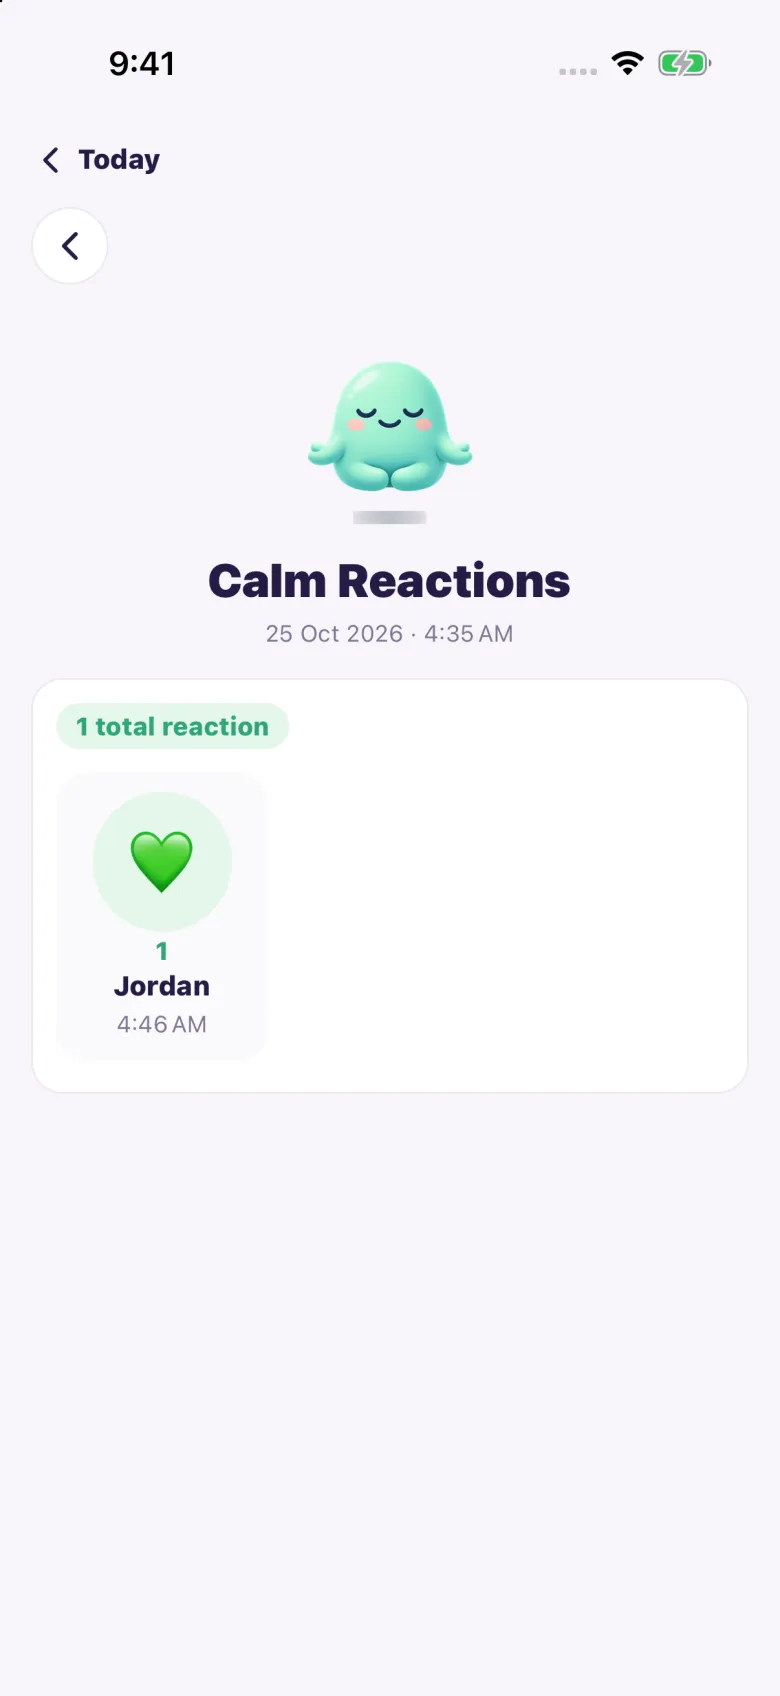
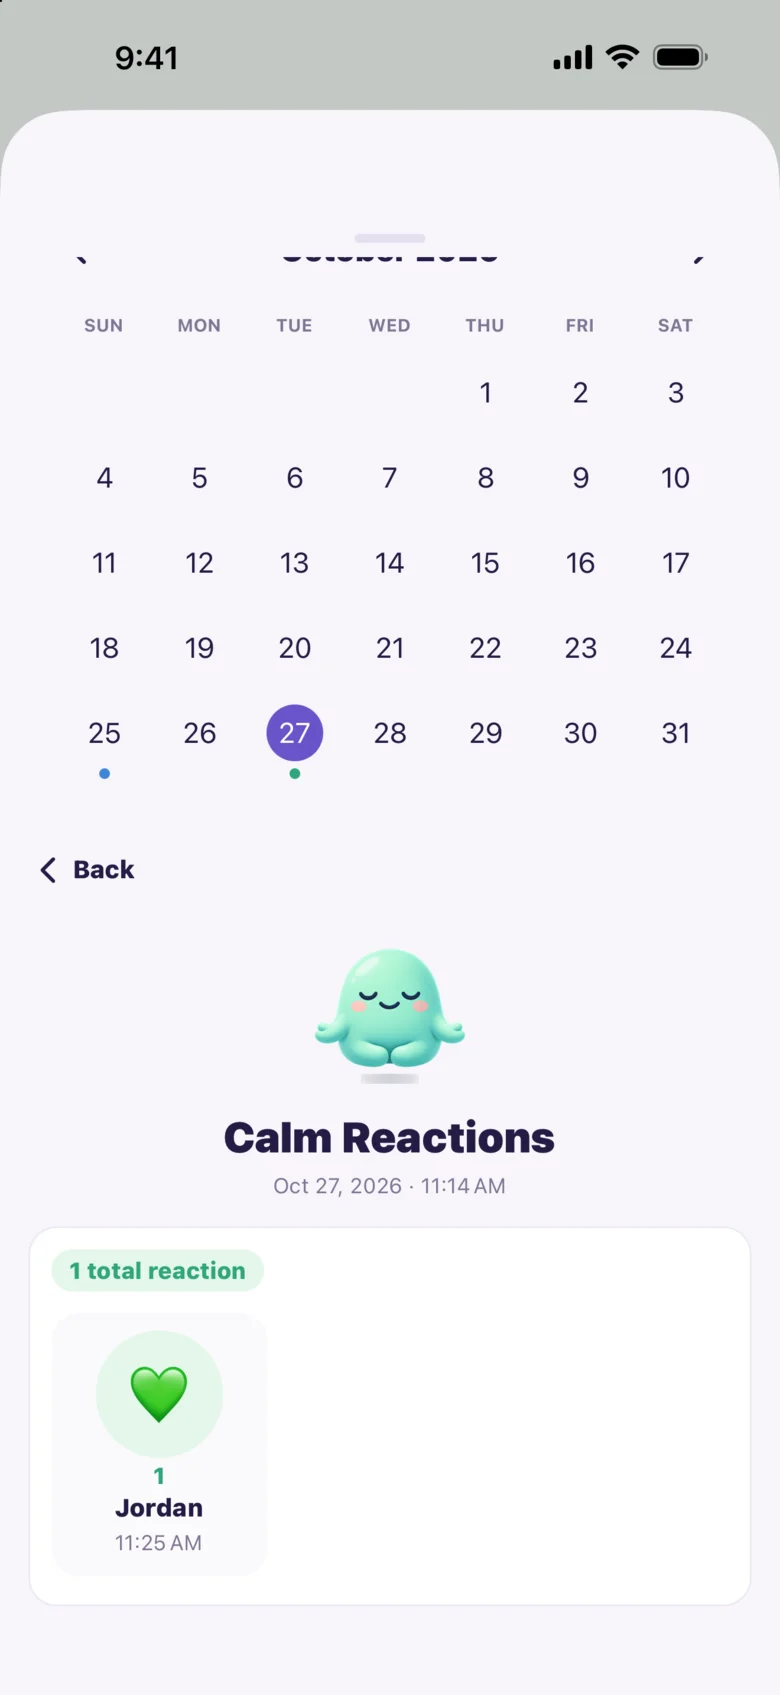
Website: real current screenshots in the Family section (signal sheet, Watches, Your day, reactions); drop old timeline and Reactions slides

diff --git a/website/public/index.html b/website/public/index.html
@@ -90,7 +90,7 @@
         <ul><li>Tap your pal to open the mood picker</li><li>Tap a mood in the row to see it up close</li><li>Tap Set Mood to save it and share it with your Circle</li><li>Went back to your heart data on iPhone? Your watch follows too</li></ul></div>
       </article>
       <article class="feature" id="family">
-        <div class="phone" data-screen="family" data-slides="family-day,family-location,family-reactions,watches-tab,your-day,your-day-reactions"></div>
+        <div class="phone" data-screen="family" data-slides="family-location,family-signal,watches-tab,your-day,your-day-reactions"></div>
         <div><span class="kicker lilac">New: Family watches &amp; Your day</span><h3>Keep up with the people you care for</h3>
         <p>Link a child's or loved one's Apple Watch (set up with Apple's Family Setup) to your account by typing the 6-digit code it shows. It becomes its own mood-only profile: they pick how they feel on the watch, you see it on your iPhone, and the groups you choose can react with an emoji. No heart rate or other Health data is collected for family watches.</p>
         <ul><li>Switch between You and each family watch at the top of Today</li><li>Your day: a month calendar with a dot for each day you checked in, and every mood change with who reacted</li><li>Send a Little Signal or open the chat right from a family watch's Today view</li><li>See where your child's watch was the last time they opened MoodPals or set a mood, on a map in their Today view</li><li>You always get their moods; add Circle groups if you like</li><li>Free includes 1 family watch, Plus up to 4</li></ul></div>

diff --git a/website/public/app.js b/website/public/app.js
@@ -81,7 +81,7 @@ document.querySelectorAll('.phone').forEach(phone => {
   phone.appendChild(screen);
   const slides = (phone.dataset.slides || '').split(',').filter(Boolean);
   if (slides.length) {
-    screen.innerHTML = slides.map((s, i) => `<img class="slide${i ? '' : ' on'}" src="/img/screens/${s}.webp?v=11" alt="MoodPals ${s.replace('-', ' ')} screen">`).join('');
+    screen.innerHTML = slides.map((s, i) => `<img class="slide${i ? '' : ' on'}" src="/img/screens/${s}.webp?v=12" alt="MoodPals ${s.replace('-', ' ')} screen">`).join('');
     let i = 0;
     const imgs = screen.querySelectorAll('.slide');
     setInterval(() => { imgs[i].classList.remove('on'); i = (i + 1) % imgs.length; imgs[i].classList.add('on'); }, 2800);
